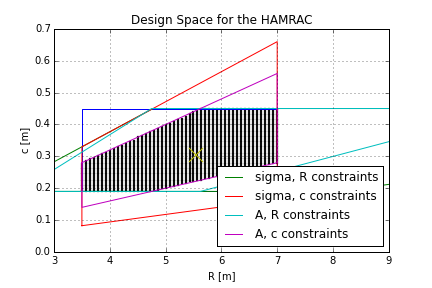
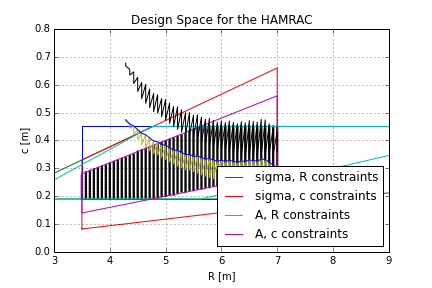
Climb rates update
Match FAR regulation #2

diff --git a/ESSRA_data.py b/ESSRA_data.py
@@ -14,9 +14,9 @@ R = 4.46
 c = 0.227
 Omega = 41
 
-R = 6.2*np.sqrt(2)
-c = 0.27*np.sqrt(2)
-Omega = 29/np.sqrt(2)
+#R = 6.2
+#c = 0.27
+#Omega = 29
 
 heliinputs = 'HAMRAC', 2, 3, 1.05*MTOW*9.81, 8950, R, c, 3, 650, 0.95, Omega, 2, 0.012, 1.15
 # 5% added to weight due to the downdraft on the fuselage, must be changed if the actual weight of the rotorcraft becomes relevant
@@ -24,10 +24,10 @@ airspeed = np.arange(1, 120, 1, dtype=float)
 
 #far = heli.Coaxheli('FAR-regulation-check', 1, 6, MTOW*9.81, 6400, 0.457, 3, 650, 0.95, 21.21, 2, 0.012, 1.15, convert=True)
 #SR_HAMRAC = heli.SRheli(*heliinputs)
-marilena = heli.SRheli("Marilena's Example", 1, 4, 90e3, 0, 9.5, 0.457, 3, 1400, 0.95, 21, 3, 0.01, 1.15)
+#marilena = heli.SRheli("Marilena's Example", 1, 4, 90e3, 0, 9.5, 0.457, 3, 2500, 0.95, 21, 3, 0.01, 1.15)
 
-#mp = marilena.powerCurve(airspeed[:80], select_engine=False)
-#mpcl = marilena.powerCurve(airspeed[:80], P_to0=mp[1], select_engine=False)
+#mp = marilena.powerCurve(airspeed, select_engine=False)
+#mpcl = marilena.powerCurve(airspeed, P_to0=mp[1], select_engine=False)
 
 # Single Rotor Sample Power curve
 #level_speed, level_power = SR_HAMRAC.powerCurve(airspeed, P_to0=None, figtitle='Power requirements for a rotorcraft in level, horizontal, forward flight', fname='powercurves/PowerCurveHAMRACLevel.png')
@@ -36,7 +36,7 @@ marilena = heli.SRheli("Marilena's Example", 1, 4, 90e3, 0, 9.5, 0.457, 3, 1400,
 #climb_vchars = SR_HAMRAC.determineV_chars(airspeed, level_power/1000)
 
 # Coaxial Rotor Power Curve
-coax_HAMRAC = heli.Coaxheli(*heliinputs, zD=0.05, convert=False)
+coax_HAMRAC = heli.Coaxheli(*heliinputs, zD=0.05, convert=True)
 clvl_v, clvl_p = coax_HAMRAC.powerCurve(airspeed, P_to0=None, figtitle='Power requirements for a coaxial rotorcraft in \nlevel, horizontal, forward flight', fname='powercurves/PowerCurveCoaxLevel.png', select_engine=True)
 #ccl_v, ccl_p = coax_HAMRAC.powerCurve(airspeed, clvl_p, 'Power requirements for a coaxial rotorcraft in \nnon-level, climbing flight', fname='powercurves/PowerCurveCoaxClimb.png', select_engine=False)
 
@@ -50,7 +50,7 @@ clvl_v, clvl_p = coax_HAMRAC.powerCurve(airspeed, P_to0=None, figtitle='Power re
 #cvs, cdata = coax_HAMRAC.idealPhovafoc()
 #coax_HAMRAC.plot_val(cdata[0], cdata[1][0]/1000, title='Optimising power required to hover wrt blade chord', xlabel='Blade chord c [m]', ylabel='P_hov [kW]', get_min=True, fname='mdo/P_hovafoc.png')
 ##
-#Omegavs, Omegadata = coax_HAMRAC.idealPhovafoOmega()
+#Omegavs, Omegadata = coax_HAMRAC.idealPhovafoOmega(np.linspace(1, 40))
 #coax_HAMRAC.plot_val(Omegadata[0], Omegadata[1][0]/1000, title='Optimising power required to hover wrt angular velocity', xlabel='Angular velocity Omega [rad/s]', ylabel='P_hov [kW]', get_min=True, fname='mdo/P_hovafoOmega.png')
 
 # 'ideal' rotorcraft wrt hover power
@@ -58,33 +58,52 @@ i_Phov_coax = copy.copy(coax_HAMRAC)
 #i_Phov_coax.setR(7.73)
 #i_Phov_coax.setc(0.4265)
 #i_Phov_coax.setOmega(29.795)
-i_Phov_coax.setR(5.55*np.sqrt(2))
-i_Phov_coax.setc(0.304*np.sqrt(2))
-i_Phov_coax.setOmega(33/np.sqrt(2))
-i_Phov_coax.seth(3930)
-#i_Phov_coax.convert()
+i_Phov_coax.setR(5.55)
+i_Phov_coax.setc(0.304)
+i_Phov_coax.setOmega(33)
+i_Phov_coax.convert()
 #i_Phov_coax.Nb = 3  # copying coax_HAMRAC copies Nb and Nr, but Nr is then divided by 2 in convert
 i_Phov_vals = i_Phov_coax.reconvert()
 
 HAMRAC_vals = coax_HAMRAC.reconvert()
-#HAMRAC_vals = 1, 6, R, c, Omega
+HAMRAC_vals = 1, 6, R, c, Omega
 
 #validity = i_Phov_coax.Mtip_ne_constraint(), i_Phov_coax.Mtip_cr_constraint(), i_Phov_coax.myu_constraint(), i_Phov_coax.bl_constraint()
-# validity needs.... validation
 ilvl_v, ilvl_p = i_Phov_coax.powerCurve(airspeed, P_to0=None, figtitle="Power requirements for the 'ideal' coaxial rotorcraft in \nlevel, horizontal, forward flight \n'ideal' with respect to minimum hover power", fname='powercurves/PowerCurveidealLevel.png', select_engine=True)
-icl_v, icl_p = i_Phov_coax.powerCurve(airspeed, P_to0=ilvl_p, figtitle="Power requirements for the 'ideal' coaxial rotorcraft in \nnon-level, climbing, forward flight \n'ideal' with respect to minimum hover power", fname='powercurves/PowerCurveidealClimb.png', select_engine=False)
-
-print('P_hov_HAMRAC: %f' % clvl_p[0])
-print('P_hov_ideal: %f' % ilvl_p[0])
-print('Parameter | HAMRAC | ideal')
-#print('Nr        | %i      | %i' % (1, 6))
-#print('Nb        | %i      | %i' % (1, 6))
-print('R         | %s | %s' % (str(HAMRAC_vals[2])[:6], str(i_Phov_vals[2])[:5]))
-print('c         | %s | %s' % (str(HAMRAC_vals[3])[:6], str(i_Phov_vals[3])[:5]))
-print('Omega     | %s | %s' % (str(HAMRAC_vals[4])[:6], str(i_Phov_vals[4])[:5]))
+#icl_v, icl_p = i_Phov_coax.powerCurve(airspeed, P_to0=ilvl_p, figtitle="Power requirements for the 'ideal' coaxial rotorcraft in \nnon-level, climbing, forward flight \n'ideal' with respect to minimum hover power", fname='powercurves/PowerCurveidealClimb.png', select_engine=False)
+#
+#print('P_hov_HAMRAC: %f' % clvl_p[0])
+#print('P_hov_ideal: %f' % ilvl_p[0])
+#print('Parameter | HAMRAC | ideal')
+##print('Nr        | %i      | %i' % (1, 6))
+##print('Nb        | %i      | %i' % (1, 6))
+#print('R         | %s | %s' % (str(HAMRAC_vals[2])[:6], str(i_Phov_vals[2])[:5]))
+#print('c         | %s | %s' % (str(HAMRAC_vals[3])[:6], str(i_Phov_vals[3])[:5]))
+#print('Omega     | %s | %s' % (str(HAMRAC_vals[4])[:6], str(i_Phov_vals[4])[:5]))
 
 # comparison between old and new
 #i_Phov_coax.plot_vals(airspeed, (ilvl_p/1000, clvl_p/1000), labels=('ideal curve', 'current curve'), title='Comparison between current and current ideal rotor design', xlabel='airspeed [m/s]', ylabel='P_hov [kW]', get_min=False, fname='PowerCurveComparison.png')
+
+
+better_HAMRAC = copy.copy(coax_HAMRAC)
+# SR rotor
+better_HAMRAC.setR(6.5)
+better_HAMRAC.setc(0.301)
+better_HAMRAC.setOmega(31) 
+better_HAMRAC.convert()
+
+blvl_v, blvl_p = better_HAMRAC.powerCurve(airspeed)
+better_vals = better_HAMRAC.reconvert()
+
+print('P_hov_HAMRAC: %f' % clvl_p[0])
+print('P_hov_ideal: %f' % ilvl_p[0])
+print('P_hov_better: %f' % blvl_p[0])
+print('Parameter | HAMRAC | ideal | better')
+#print('Nr        | %i      | %i' % (1, 6))
+#print('Nb        | %i      | %i' % (1, 6))
+print('R         | %s | %s | %s' % (str(HAMRAC_vals[2])[:6], str(i_Phov_vals[2])[:5], str(better_vals[2])[:5]))
+print('c         | %s | %s | %s' % (str(HAMRAC_vals[3])[:6], str(i_Phov_vals[3])[:5], str(better_vals[3])[:5]))
+print('Omega     | %s | %s | %s' % (str(HAMRAC_vals[4])[:6], str(i_Phov_vals[4])[:5], str(better_vals[4])[:5]))
 
 # Characteristic airspeed parameter optimisation (2D parameter optimisation)
 # R

diff --git a/heli.py b/heli.py
@@ -7,7 +7,6 @@ Created on Thu Dec  6 09:26:19 2018
 import abc
 import numpy as np
 import matplotlib.pyplot as plt
-from mpl_toolkits.mplot3d import Axes3D
 import engine
 import copy
 
@@ -78,6 +77,10 @@ class SRheli(object):
         return (self.name, self.Nr, self.Nb, self.W, self.h, self.R, self.c, 
                 self.f, self.P_e, self.eta_m, self.Omega, self.CDS, self.CDp_bar, 
                 self.k, self.P_a, self.engine_choice)
+                
+    def __repr__(self):
+        return 'Name: %s\nNr: %i\nNb: %i\nh: %f\nR: %f\nc: %f\nOmega: %f\nP_e: %f\nP_a(h): %f\nEngine: %s' % (
+        self.name, self.Nr/2, self.Nb*2, self.h, self.R, self.c, self.Omega, self.P_e, self.P_a, self.engine_choice.name)
                 
 #    @staticmethod 
 #    def convert(Nr, Nb, R, c, Omega):
@@ -178,7 +181,7 @@ class SRheli(object):
     def setTwinEngine(self, engine):
         self.engine_choice = engine
         self.P_a = 2*engine.determine_power_at_altitude(self.h)
-        self.P_e = engine.P_sl
+        self.P_e = 2*engine.P_sl
 
     def plot_val(self, x, y, title=None, xlabel=None, ylabel=None, get_min=False, xlim=None, ylim=None, fname=None):
         '''Plot x against y'''
@@ -456,15 +459,16 @@ class SRheli(object):
         engine_best, engine_alternatives = engine.engineoptions.select_engine(farTO_power[0][0], far_regulation_TO.h)
         self.setEngine(engine_best)
 
-        far_regulation_vcl = copy.copy(far_regulation_TO)
+        far_regulation_vcl = copy.copy(self)
         far_regulation_vcl.setname('far-regulation-2, vcl')
         far_regulation_vcl.seth(6705)
-        farvcl_v, farvcl_power = far_regulation_vcl.determineP_to(np.linspace(1, 100), P_to0=farTO_power[0])
+        farvcl_v, farvcl_power = far_regulation_vcl.determineP_to(np.linspace(1, 100))
         farvcl_v_cl, farvcl_power_cl = far_regulation_vcl.determineP_to(np.linspace(1, 100), P_to0=farvcl_power[0])
                     
         vcl_req = 0.76  # m/s
         if farvcl_v_cl[1][0] < vcl_req:
-            vclreq_power = vcl_req / (far_regulation_vcl.vi_hov - vcl_req*far_regulation_vcl.vi_hov)*far_regulation_vcl.W/9.81 + farvcl_power_cl[0][0]
+#            print('2nd FAR req')
+            vclreq_power = vcl_req / (far_regulation_vcl.vi_hov - vcl_req*far_regulation_vcl.vi_hov)*far_regulation_vcl.W/9.81 + farvcl_power[0][0]
             engine_best, engine_alternatives = engine.engineoptions.select_engine(vclreq_power, far_regulation_vcl.h)
             
         self.setTwinEngine(engine_best)
@@ -636,8 +640,8 @@ class Coaxheli(SRheli):
         '''
         Converts the given single-rotor data into the equivalent (solidity) coaxial rotor data
         '''
-        self.Nr = 2 
-        self.Nb = self.Nb/2
+#        self.Nr = 2 
+#        self.Nb = self.Nb/2
         self.R = self.R*np.sqrt(2)
         self.c = self.c*np.sqrt(2)
         self.Omega = self.Omega/np.sqrt(2)

diff --git a/designspace.py b/designspace.py
@@ -384,11 +384,23 @@ class DesignSpace(object):
         R2opt = coordsX[dspaceRc[:,0]]
         copt = coordsZ[dspaceRc[:,1]]
 #        
-#        blmin = np.min(LHS, axis=0)
         
 #        Cts1 = self.get_OmegaafoCts_Rc(blmin[:,0], blmin[:,1])
         Cts2 = self.get_cafoCts_ROmega(Ropt, Oopt)
         
+        Rset = set(Ropt)
+        Rset = sorted(Rset)  
+        Rlist = list(Ropt)
+        Cts21 = list(Cts2[0])
+        Cts22 = list(Cts2[1])
+        Cts2upper = []
+        Cts2lower = []
+            
+        for Rval in Rset:
+            # list goes the wrong way, need to find last instance of Rval, but cannot list.reverse()
+            Rindleft = Rlist.index(Rval)
+            Cts2upper.append(Cts22[Rindleft])
+
         fig = plt.figure()
 #        axRO = fig.add_subplot(111, projection='3d')
         axRO = fig.add_subplot(111)
@@ -405,7 +417,7 @@ class DesignSpace(object):
         axRO.plot((Rm1, Rm2, Rm3, Rm4, Rm1), (Omegamin, Omegamin, Omegamax, Omegamax, Omegamin), label='myu, R constraints')  
         axRO.plot((Rmin, Rmin, Rmax, Rmax, Rmin), (Omegam1, Omegam2, Omegam3, Omegam4, Omegam1), label='myu, Omega constraints')        
         
-        plt.scatter(Ropt, Oopt, c='#abaaa9', s=2)  
+        plt.scatter(Ropt, Oopt, c='#fff9f6', marker='o', s=2)  
         if idealR and idealOmega:
             plt.scatter(idealR, idealOmega, marker='x', c='y', s=100)
 #        plt.scatter(R2opt, Cts1[0])
@@ -430,11 +442,13 @@ class DesignSpace(object):
         axRc.plot((RA1, RA2, RA3, RA4, RA1), (cmin, cmax, cmax, cmin, cmin), label='A, R constraints')
         axRc.plot((Rmin, Rmin, Rmax, Rmax, Rmin), (cA1, cA2, cA3, cA4, cA1), label='A, c constraints')        
         
-        plt.scatter(R2opt, copt, c='#abaaa9', s=2)  
+        plt.scatter(R2opt, copt, c=[(1, 1, 1, 0) for i in range(len(copt))], s=2)  
         if idealR and idealc:
             plt.scatter(idealR, idealc, marker='x', c='y', s=200)
 #        plt.scatter(blmin[:,0], Cts2[0])
-#        plt.scatter(Ropt, Cts2[1])
+        plt.plot(Ropt, Cts2[1])
+        plt.plot(Ropt, Cts2[0])
+        plt.plot(Rset, Cts2upper)
         
         plt.legend(loc='lower right')
         plt.savefig('mdo/desspaceRc.png')
@@ -442,12 +456,13 @@ class DesignSpace(object):
         
 HAMRspace = DesignSpace()
 data = HAMRspace.compare_statistics()
-idealR = 5.55
-idealc = 0.304
-idealOmega = 33
+idealR = 5.9
+idealc = 0.301
+idealOmega = 31
 HAMRspace.plot_boundaries(data[0][0], data[1][0], data[0][1], data[1][1], data[2][0], data[3][0], data[2][1], data[3][1], idealR=idealR, idealc=idealc, idealOmega=idealOmega)
 
 ideals = idealR, idealc, idealOmega
 aerobounds = HAMRspace.Mtip_cr_constraint(*ideals), HAMRspace.Mtip_ne_constraint(*ideals), HAMRspace.myu_constraint(*ideals), HAMRspace.bl_constraint(*ideals)
 validity = HAMRspace.det_constraints(*aerobounds)
 print validity
+

diff --git a/engine.py b/engine.py
@@ -32,6 +32,10 @@ class Engine(object):
         self.name = name
         self.config_used = config_used
         
+    def __repr__(self):
+        return 'Name: %s\nP_sl: %f\nPa_6400: %f\nPa_6705: %f\n' % (
+        self.name, self.P_sl, self.determine_power_at_altitude(6400), self.determine_power_at_altitude(6705))
+        
     @staticmethod
     def get_rho(h):
         return 1.225*288.16/(15+271.16-1.983*h/304.8)*(1-(0.001981*h/0.3048)/288.16)**5.256
